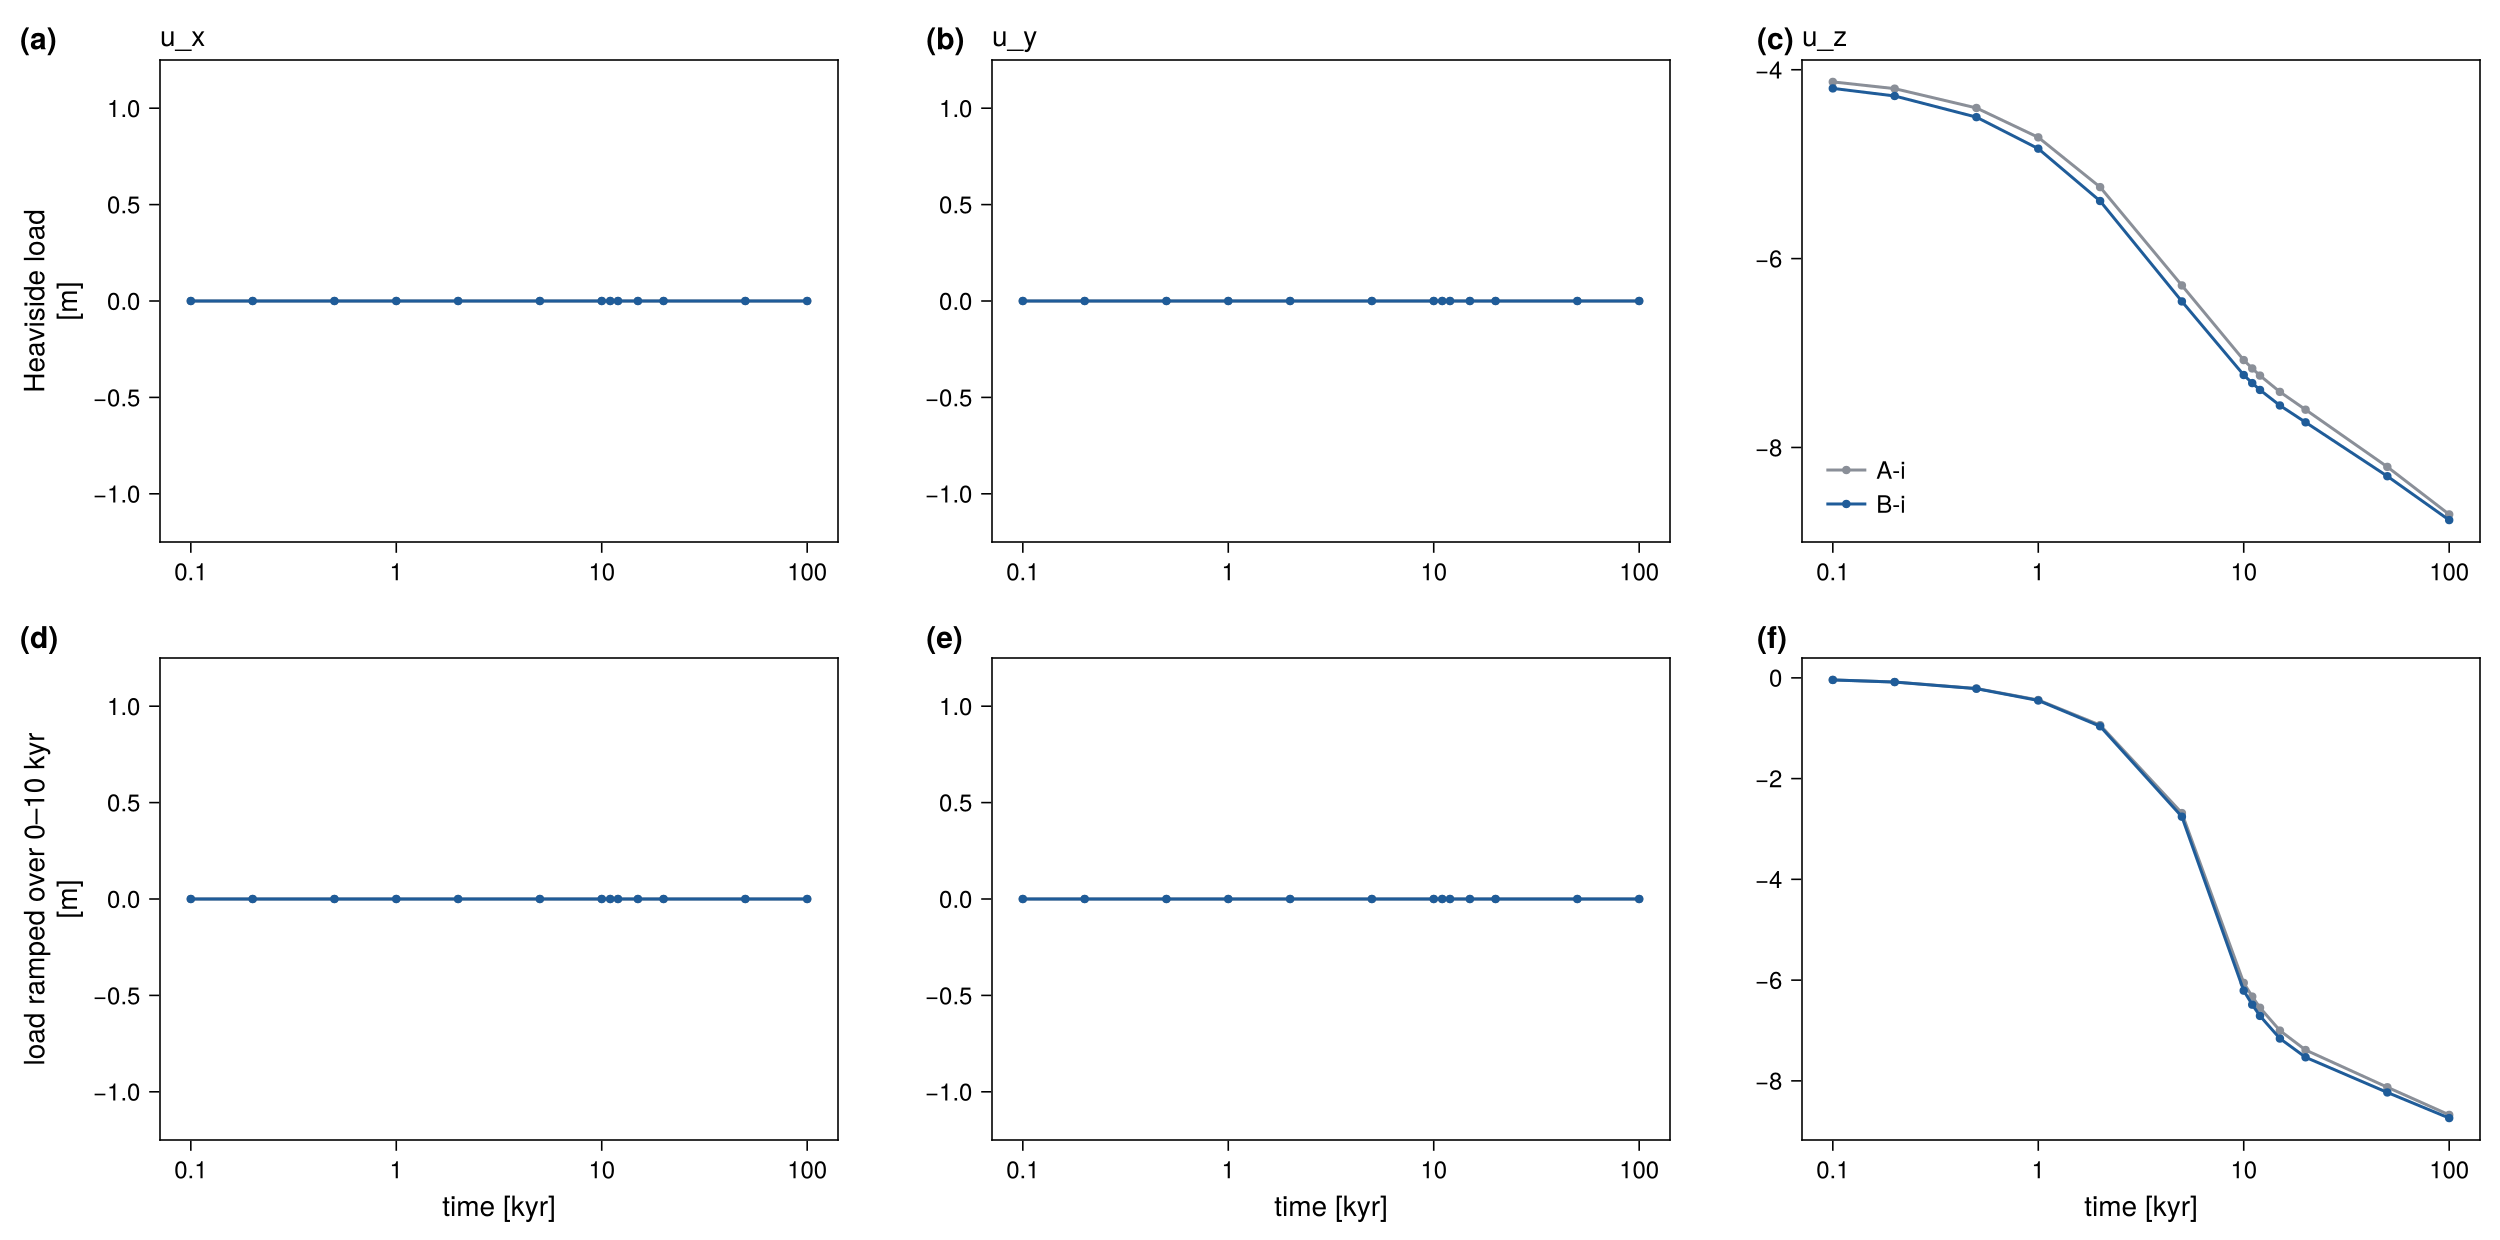
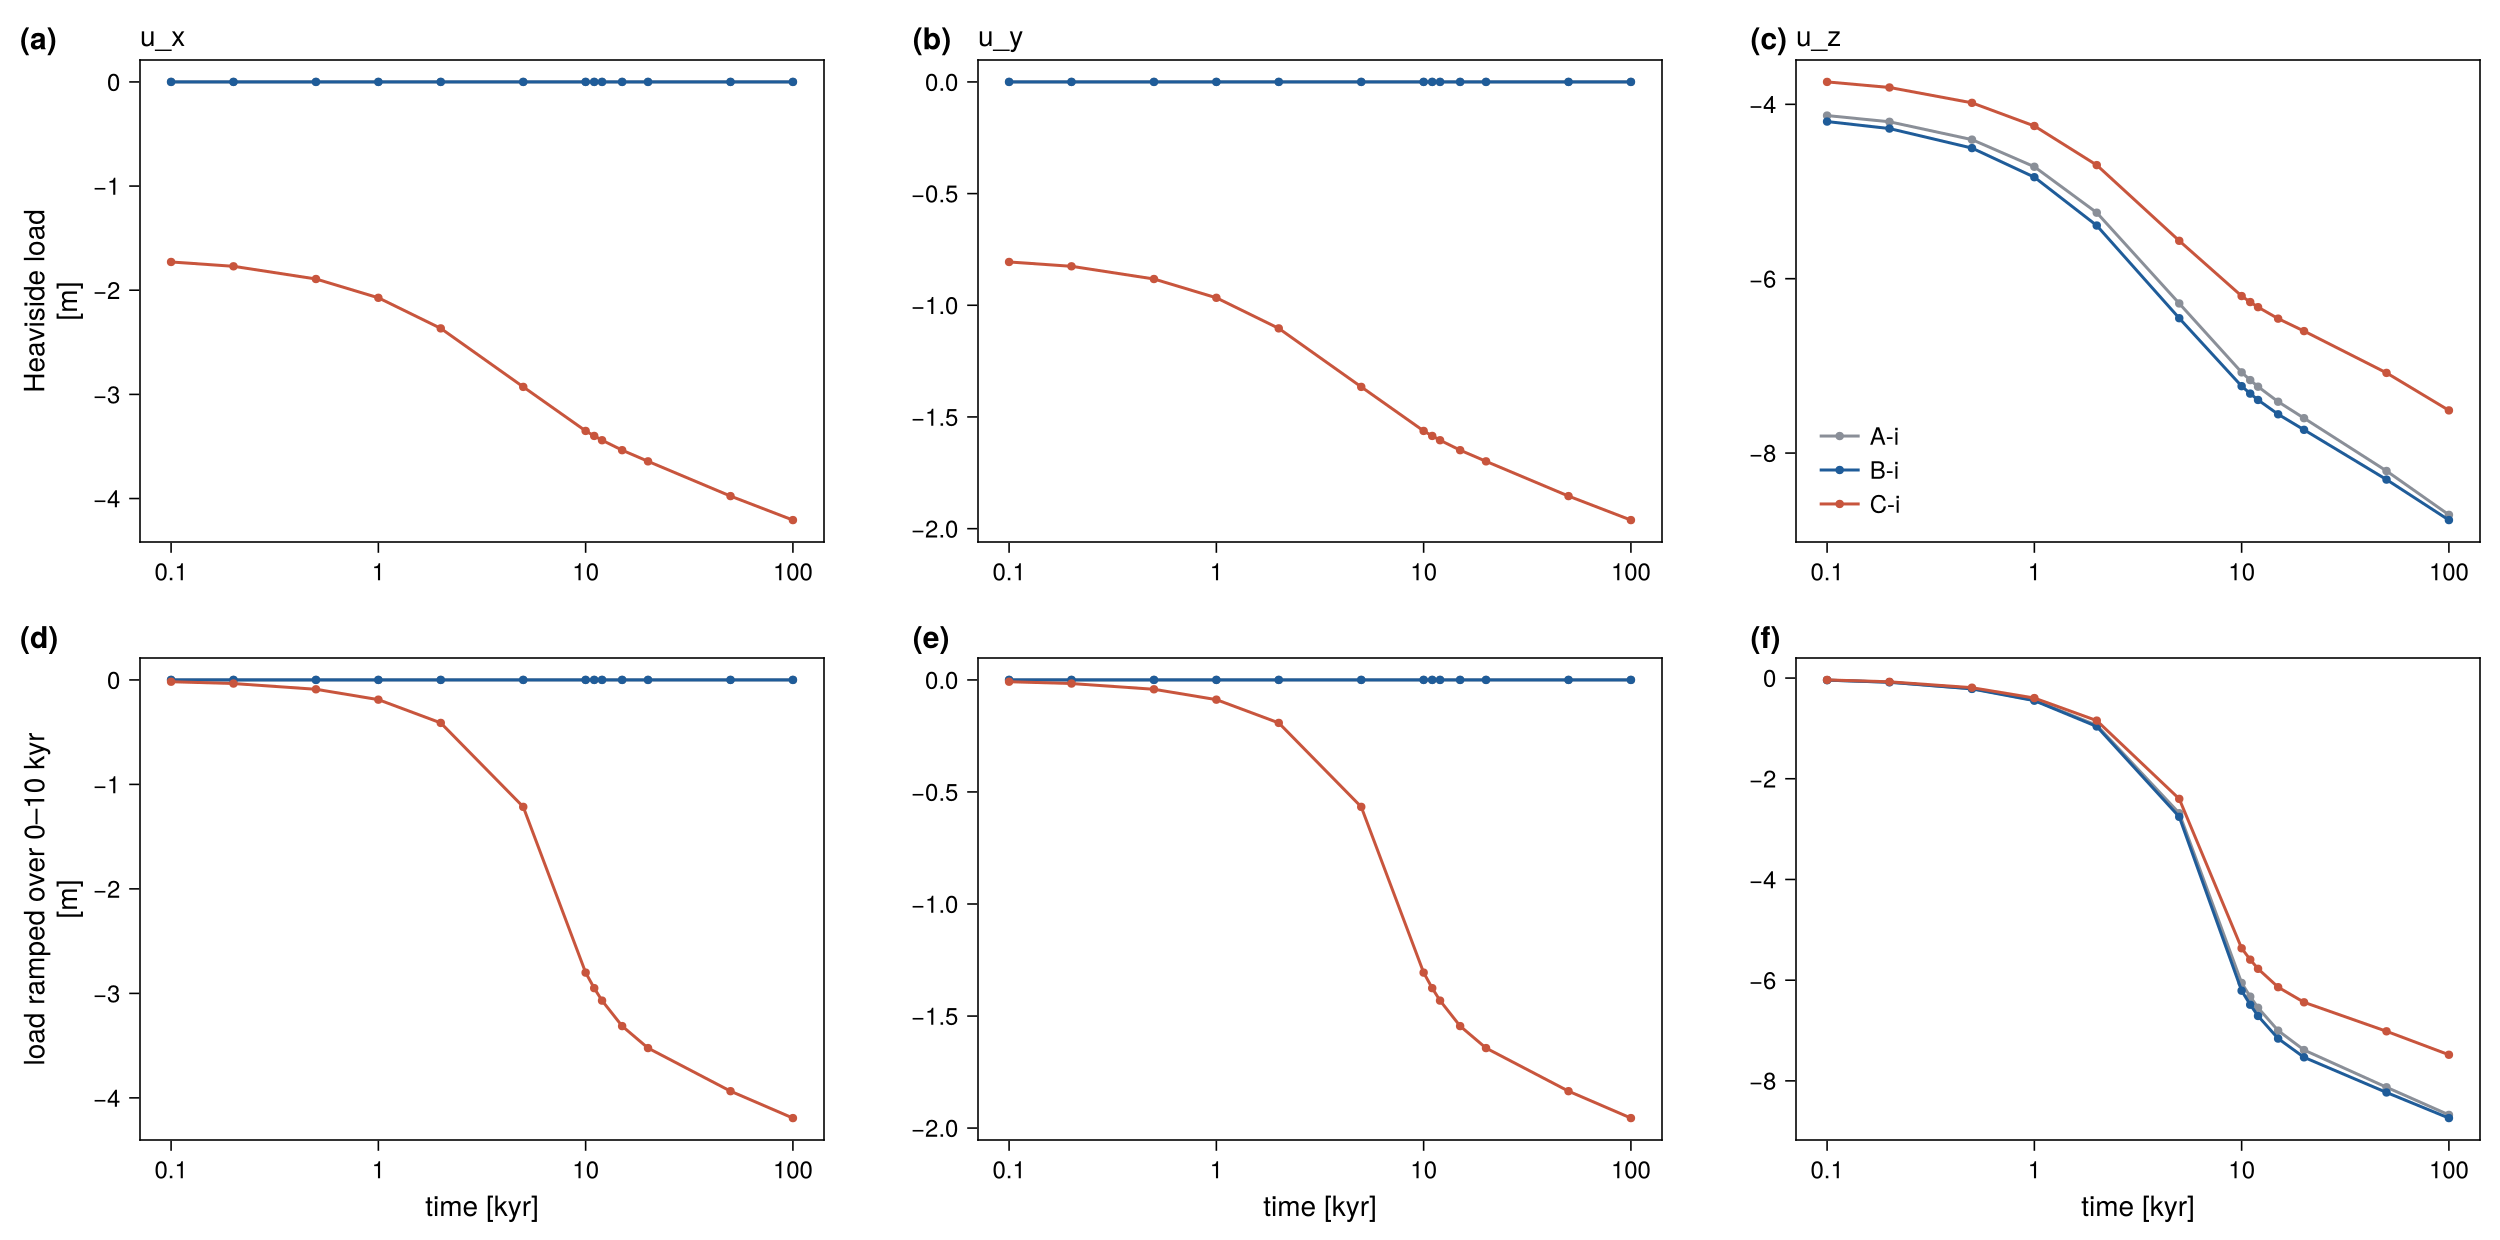
validation: block B test C-i (heaviside and ramp, lmax 128, toroidal on): rows and cost in tables/blockB.md, third column in the visc3d figures, RESULTS.md

diff --git a/validation/RESULTS.md b/validation/RESULTS.md
@@ -15,7 +15,7 @@ data: `data/published/` (untracked, on albedo under
 |---|---|---|
 | check | 48965936 (8:48) | `make check`: all 49 passed. `make check-slow`: all 9 passed |
 | A | 48965938–48965950; A3.caseA again as 48966766 with the case-A dump (tests from 83f63e4) | 13 of 13 PASS, numbers as in pass 1 |
-| B | 60 segment jobs from 48965951 | A-i and B-i, heaviside and ramp, ℓmax 64, 128, 256: complete, as in pass 1. C-i not run |
+| B | 60 segment jobs from 48965951; C-i 48967029–48967033 (heav), 48967034–48967038 (ramp) | A-i and B-i, heaviside and ramp, ℓmax 64, 128, 256: complete, as in pass 1. C-i, heaviside and ramp, ℓmax 128, toroidal on: complete, 19.3 h and 20.0 h to 100 kyr at 64 threads (3.5–4.2 h per segment); its numbers equal the 907bc74 table to the printed digits |
 | ref | 48966011 (52:41) | `visc3d split: 82 of 220` (`mesh_depth` 80 km keeps the 220-element mesh); ocean-mean rsl −101.25 m |
 | prep | 48966753 (0:16) | reference re-exported; viscosity files reused |
 | D | 48966755 3-D (47:19), 48966756 1Db (2:53) | complete |

diff --git a/validation/tables/blockB.md b/validation/tables/blockB.md
@@ -10,6 +10,7 @@ u_r at the load centre, the peripheral bulge (maximum of u_r along the section),
 |---|---:|---:|---:|---:|---:|
 | A-i | -39.35 | -307.76 | -366.67 | 17.90 | 8.709 |
 | B-i | -67.91 | -357.80 | -386.07 | 20.76 | 8.769 |
+| C-i | -67.11 | -360.55 | -386.46 | 15.40 | 8.829 |
 
 B-i / A-i, u_r at the load centre at 100 kyr: 1.053
 
@@ -21,6 +22,7 @@ u_r at the load centre, the peripheral bulge (maximum of u_r along the section),
 |---|---:|---:|---:|---:|---:|
 | A-i | -0.36 | -219.71 | -365.64 | 18.02 | 8.676 |
 | B-i | -0.55 | -309.13 | -385.60 | 21.02 | 8.739 |
+| C-i | -0.53 | -308.11 | -386.02 | 15.49 | 8.797 |
 
 B-i / A-i, u_r at the load centre at 100 kyr: 1.055
 
@@ -66,3 +68,5 @@ Wall time to 100 kyr at ℓmax 128, toroidal coupling on, summed over the chain 
 | A-i | ramp | 5 | 64 | 0.07 |
 | B-i | heav | 5 | 64 | 0.16 |
 | B-i | ramp | 5 | 64 | 0.16 |
+| C-i | heav | 5 | 64 | 19.34 |
+| C-i | ramp | 5 | 64 | 20.04 |
